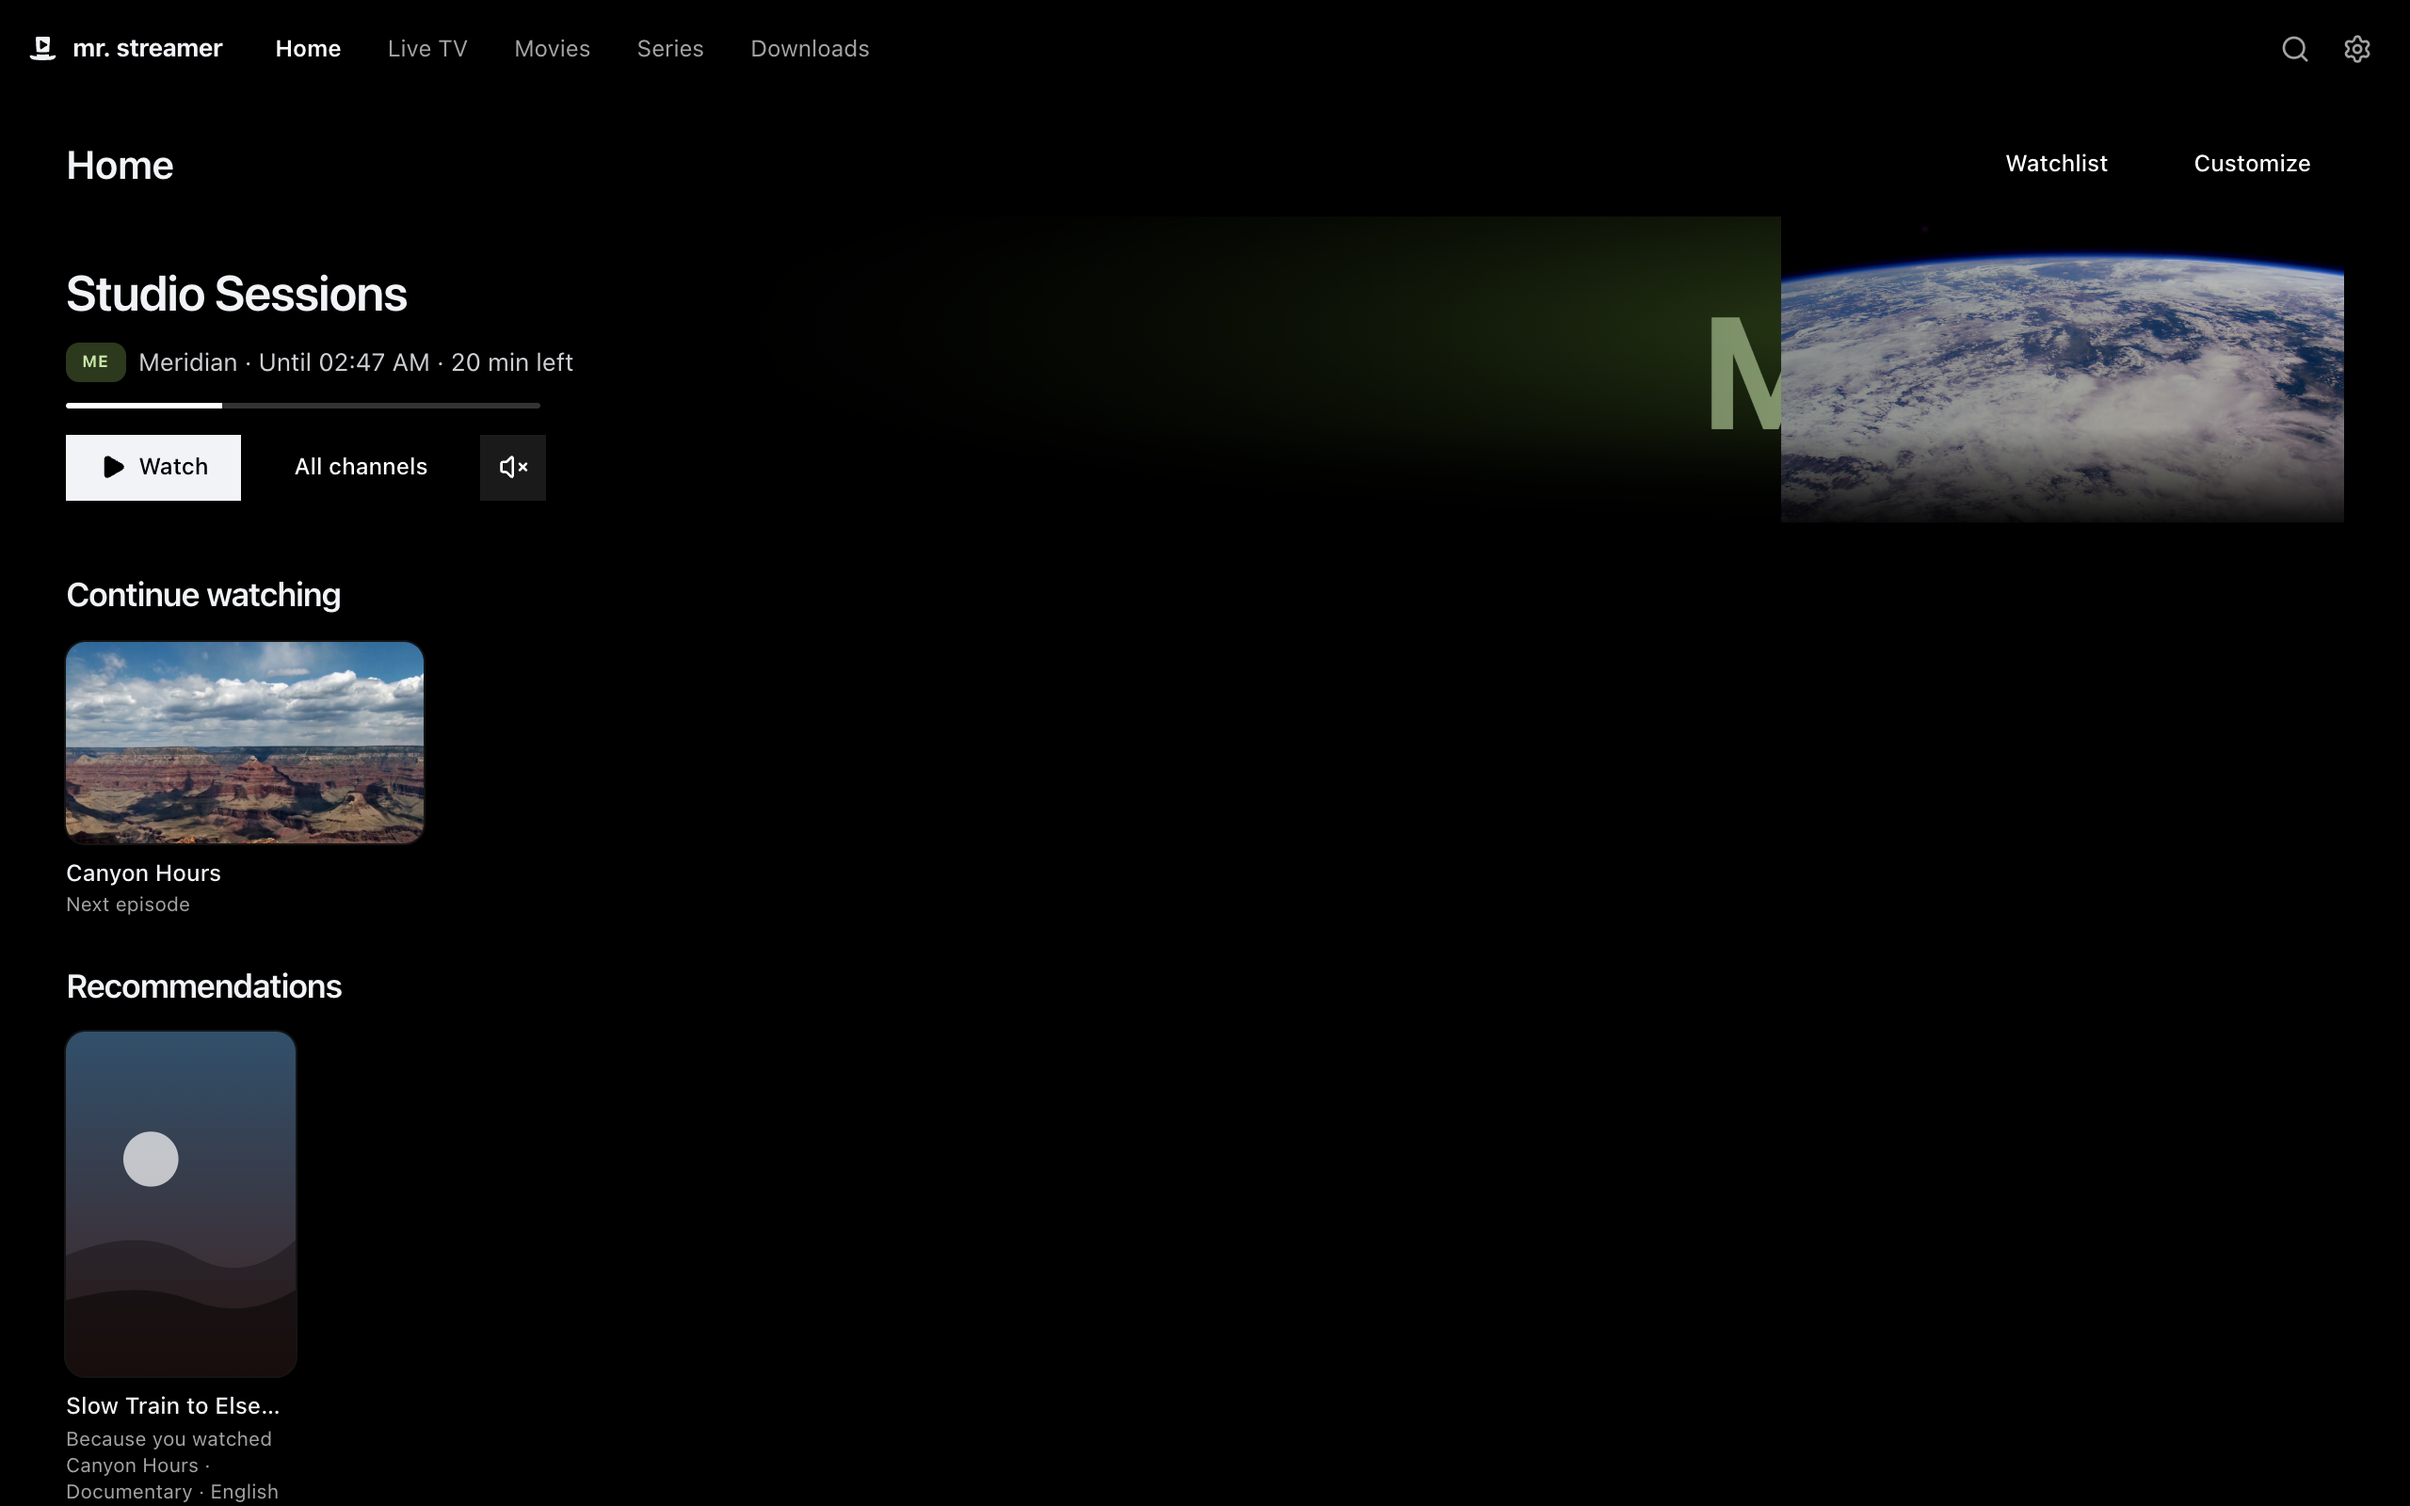
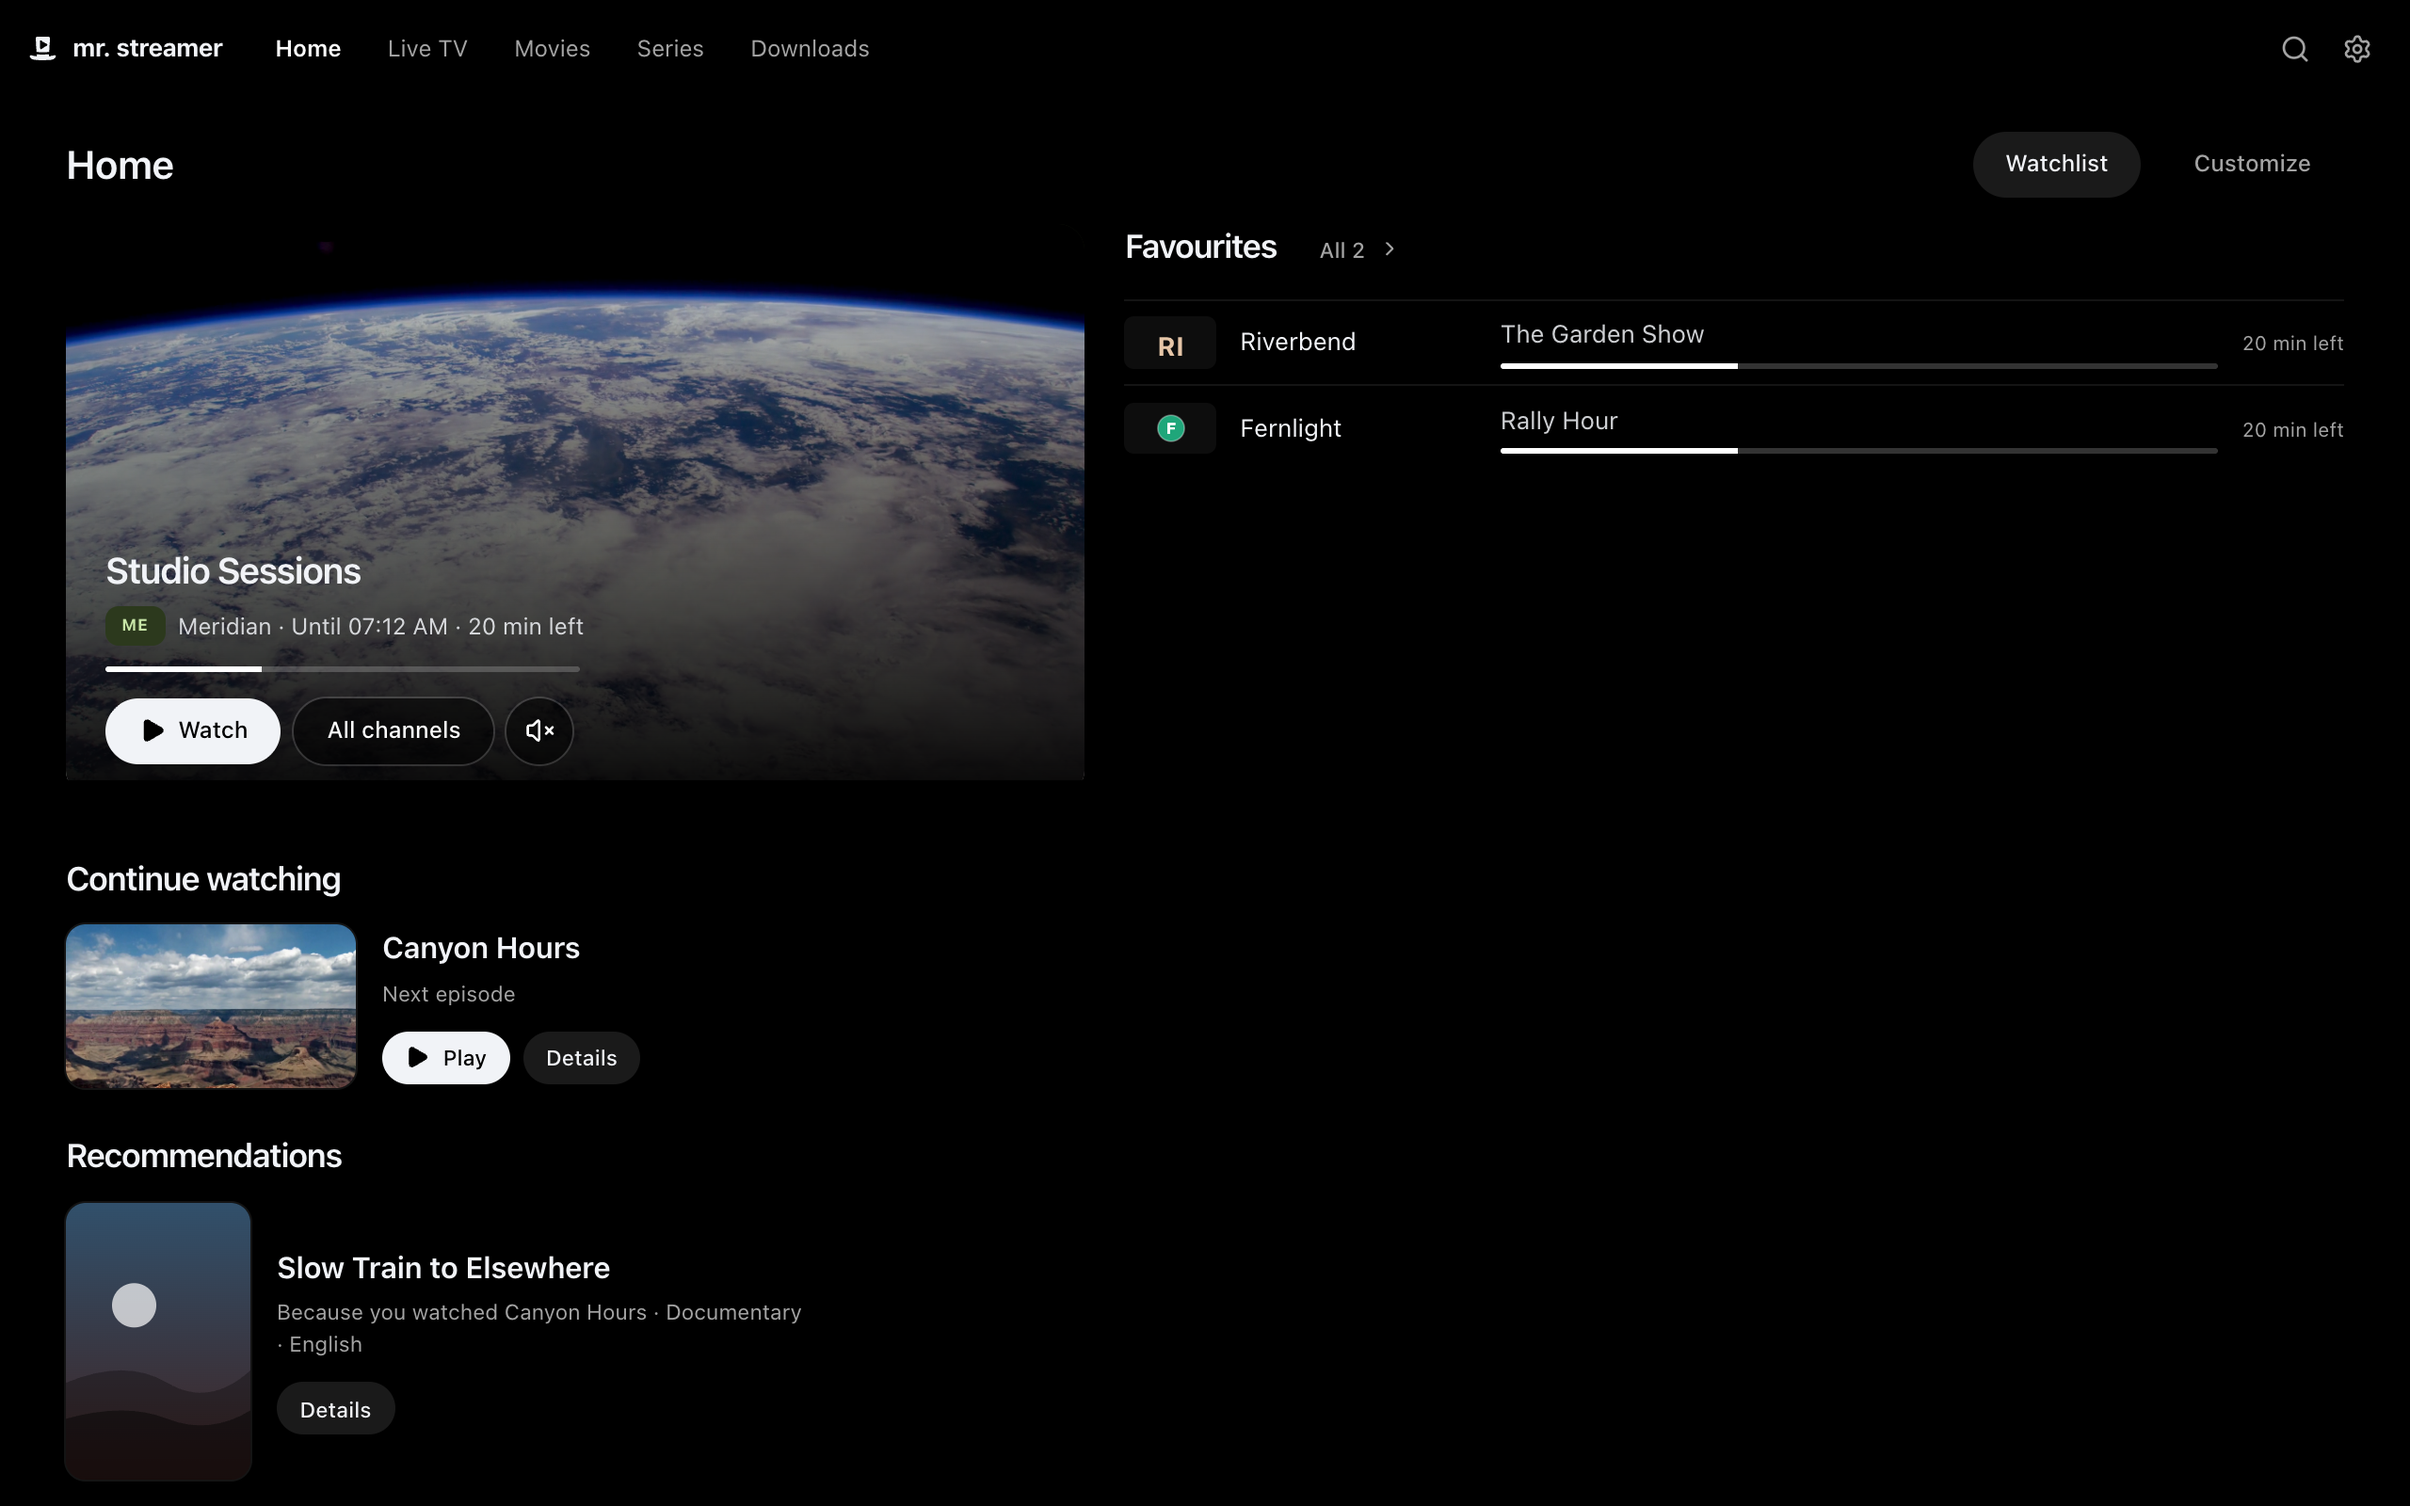
fix(marketing): refresh Home screenshot for Stage

diff --git a/docs/contributing/marketing-artwork.md b/docs/contributing/marketing-artwork.md
@@ -2,12 +2,12 @@
 
 The website shows four captures of the real app. They live in `docs/assets`:
 
-| File                     | Shows                                                                                    |
-| ------------------------ | ---------------------------------------------------------------------------------------- |
-| `marketing-home.png`     | Home actions, a compact muted live preview, Continue watching and a local recommendation |
-| `marketing-live-tv.png`  | Live TV, with eight channels and what's on now and next                                  |
-| `marketing-library.png`  | A series' details, with its story, cast, Play, Save and a related title                  |
-| `marketing-watching.png` | An episode playing, its subtitle on screen and the subtitle panel beside it              |
+| File                     | Shows                                                                                                 |
+| ------------------------ | ----------------------------------------------------------------------------------------------------- |
+| `marketing-home.png`     | Stage preview and compact channel list, rounded actions, Continue watching and a local recommendation |
+| `marketing-live-tv.png`  | Live TV, with eight channels and what's on now and next                                               |
+| `marketing-library.png`  | A series' details, with its story, cast, Play, Save and a related title                               |
+| `marketing-watching.png` | An episode playing, its subtitle on screen and the subtitle panel beside it                           |
 
 Each is the whole window at 1280 × 800 points and twice the pixels, 2560 × 1600, saved as a lossless PNG. `apps/marketing/scripts/prepare-assets.ts` cuts every size the page uses from these four files, and the social picture too. The page changes when you commit new captures and at no other time.
 
@@ -36,7 +36,7 @@ onmac pull docs/assets .local/marketing-masters
 onmac pull .local/marketing-captures .local/marketing-proof
 ```
 
-If doctor reports a missing Electron binary, run the documented `onmac run -- node apps/desktop/node_modules/electron/install.js`, then repeat doctor. Inspect the pulled original PNGs before copying the four masters and `marketing-capture.json` from the pulled `assets/` folder into `docs/assets`. Retain raw PNGs and proof on Linux, then run `onmac clean` for this checkout only. Leave every other app, checkout and capture alone.
+If doctor reports a missing Electron binary, run the documented `onmac run -- node apps/desktop/node_modules/electron/install.js`, then repeat doctor. Inspect the pulled original PNGs before copying masters and `marketing-capture.json` from the pulled `assets/` folder into `docs/assets`. For a Home-only refresh, copy only Home and its manifest entry. Keep the unchanged masters and their original provenance; an entry's `provenance` overrides the manifest's top-level capture provenance. Retain raw PNGs and proof on Linux, then run `onmac clean` for this checkout only. Leave every other app, checkout and capture alone.
 
 Finally run `pnpm build:marketing` locally and inspect the real site at wide and 390px widths. This builds local output; deployment is separate.
 
@@ -90,6 +90,8 @@ The script verifies the owned CDP arguments and renderer URL, then retains raw p
 - Run `pnpm build:marketing` and look at the page on a wide screen and a phone. The phone shows a part of each window, set in `prepare-assets.ts`. If the app's layout moved, move those parts with it and keep `index.html`'s sizes in step.
 - Put the four files' sizes in the pull request, each and in total. They are lossless and run to a few megabytes.
 
-The 0.0.11 Home refresh was captured on the Mac mini on 11 October 2026 from Personal Home source `7b54b5265a9a62c1b20ed890c012f2041baa443a`. The source package still reports 0.0.10. It is an unsigned source build on macOS 27.0.1, arm64 and Electron 44.4.5, not an installed 0.0.11 release. Exact capture, bundle and master hashes are in `marketing-capture.json`.
+The original PR 208 captures were made on the Mac mini on 11 October 2026 from Personal Home source `7b54b5265a9a62c1b20ed890c012f2041baa443a`. Live TV, details and watching retain those masters and the manifest's original top-level provenance.
 
-Home's phone asset keeps the full 1280 × 800 window so Watchlist, Customize, the right-hand preview and the left-hand personalized rows all survive. The watching crop is 884 × 758 points at 396,42, keeping the real subtitle beside the right-hand panel. Live TV and details keep their existing crops. The 1200 × 630 social asset fits the complete Home window instead of cutting off the recommendation reason. All assets derive from captured pixels; never paint missing UI into a capture.
+Home was replaced on 12 October 2026 from merged Stage source `5db40b13ec7b3bf7a39781a71363f4fb17f2ad6d`, tree `c7d534d273b787d20d4728db6660f40857052bd0`. Its entry records the new capture provenance. This unsigned source build reports 0.0.10 on macOS 27.0.1, arm64 and Electron 44.4.5; it is not an installed 0.0.11 release. Exact capture, bundle and master hashes are in `marketing-capture.json`.
+
+Home's phone asset keeps the full 1280 × 800 window so Watchlist, Customize, the left-hand Stage preview, compact channel list and personalized rows all survive. The watching crop is 884 × 758 points at 396,42, keeping the real subtitle beside the right-hand panel. Live TV and details keep their existing crops. The 1200 × 630 social asset fits the complete Home window instead of cutting off the recommendation reason. All assets derive from captured pixels; never paint missing UI into a capture.

diff --git a/.cursor/skills/verify-mrstreamer/features/home.md b/.cursor/skills/verify-mrstreamer/features/home.md
@@ -22,7 +22,7 @@ Deeper existing paths: `apps/desktop/test/e2e/watchlist-app.ts` covers sorting/r
 
 ## Marketing capture
 
-`apps/desktop/scripts/marketing-capture.ts` uses the licensed demo manifest and a real Mac mini source build. It plays Canyon Hours through the UI, then requires Continue watching, Recommendations and the actual seed reason on Home. The master keeps the compact muted preview and permanent Watchlist/Customize actions. Additional ignored proof opens the row controls. These selected native captures strengthen screenshot evidence only; they do not establish every locale, mapped-M3U, installed-package, audio/GPU or receiver acceptance path. Follow `docs/contributing/marketing-artwork.md` for masters and provenance.
+`apps/desktop/scripts/marketing-capture.ts` uses the licensed demo manifest and a real Mac mini source build. It plays Canyon Hours through the UI, then requires Continue watching, Recommendations and the actual seed reason on Home. The Stage master keeps the left-hand muted preview, compact promoted channel list, rounded actions, sparse Continue watching/recommendation entries and permanent Watchlist/Customize actions. Home's per-entry provenance names merged Stage source `5db40b13`; the unchanged website captures keep their original `7b54b526` provenance. Additional ignored proof opens the row controls. These selected native captures strengthen screenshot evidence only; they do not establish every locale, mapped-M3U, installed-package, audio/GPU or receiver acceptance path. Follow `docs/contributing/marketing-artwork.md` for masters and provenance.
 
 ## Gotchas
 

diff --git a/.cursor/skills/verify-mrstreamer/features/website.md b/.cursor/skills/verify-mrstreamer/features/website.md
@@ -22,7 +22,7 @@ Source: `apps/marketing/README.md`, `apps/marketing/scripts/pages.ts`, `apps/mar
 
 ## Screenshot assets
 
-The four lossless masters and their checked capture manifest are under `docs/assets/marketing-*`. Follow `docs/contributing/marketing-artwork.md` for the licensed demo, Mac mini source capture and owned cleanup. `prepare-assets.ts` builds desktop/phone WebP sizes and the social PNG. Home keeps the complete window on phones and social links; watching keeps the subtitle beside its current right-hand panel. Inspect these actual assets and the rendered site at wide and 390px widths after a refresh, checking each `<picture>` source's intrinsic dimensions and descriptions. Build output stays ignored.
+The four lossless masters and their checked capture manifest are under `docs/assets/marketing-*`. Follow `docs/contributing/marketing-artwork.md` for the licensed demo, Mac mini source capture and owned cleanup. `prepare-assets.ts` builds desktop/phone WebP sizes and the social PNG. Home's per-entry `provenance` records its Stage source build; the manifest's top-level provenance still describes the three unchanged PR 208 captures. Home keeps the complete Stage window on phones and social links; watching keeps the subtitle beside its current right-hand panel. Inspect these actual assets and the rendered site at wide and 390px widths after a refresh, checking each `<picture>` source's intrinsic dimensions and descriptions. Build output stays ignored.
 
 ## IndexNow deployment notifications
 
